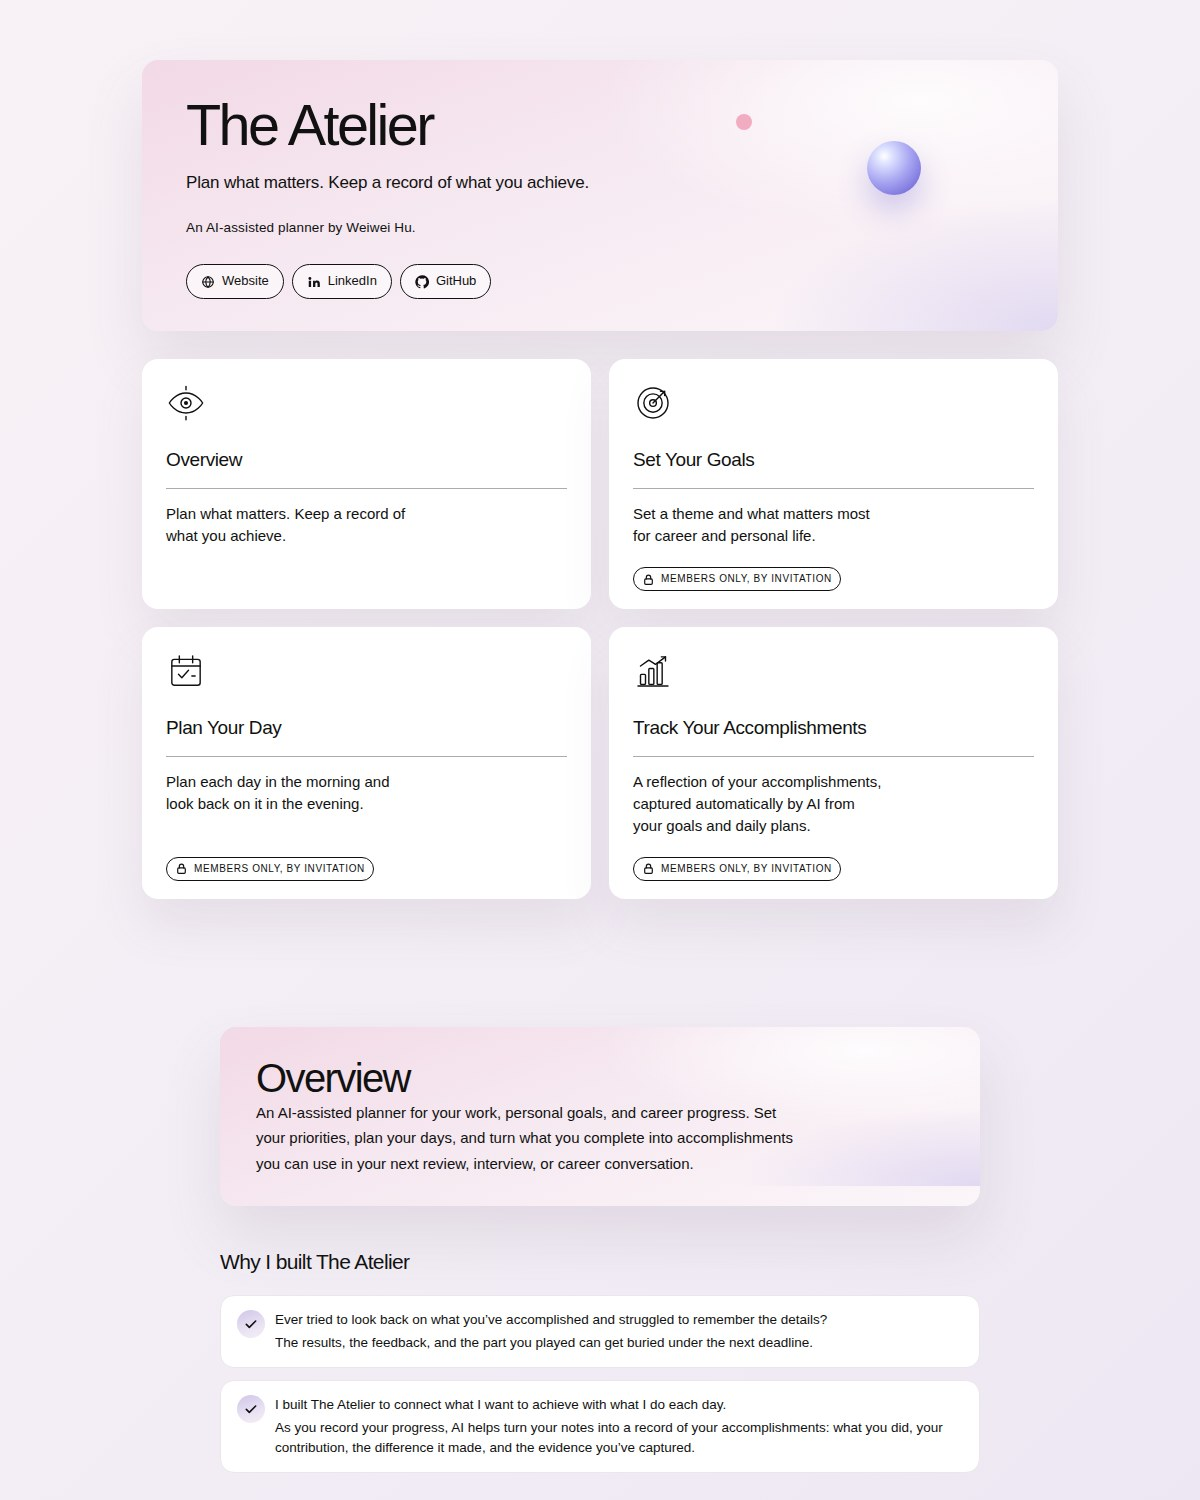
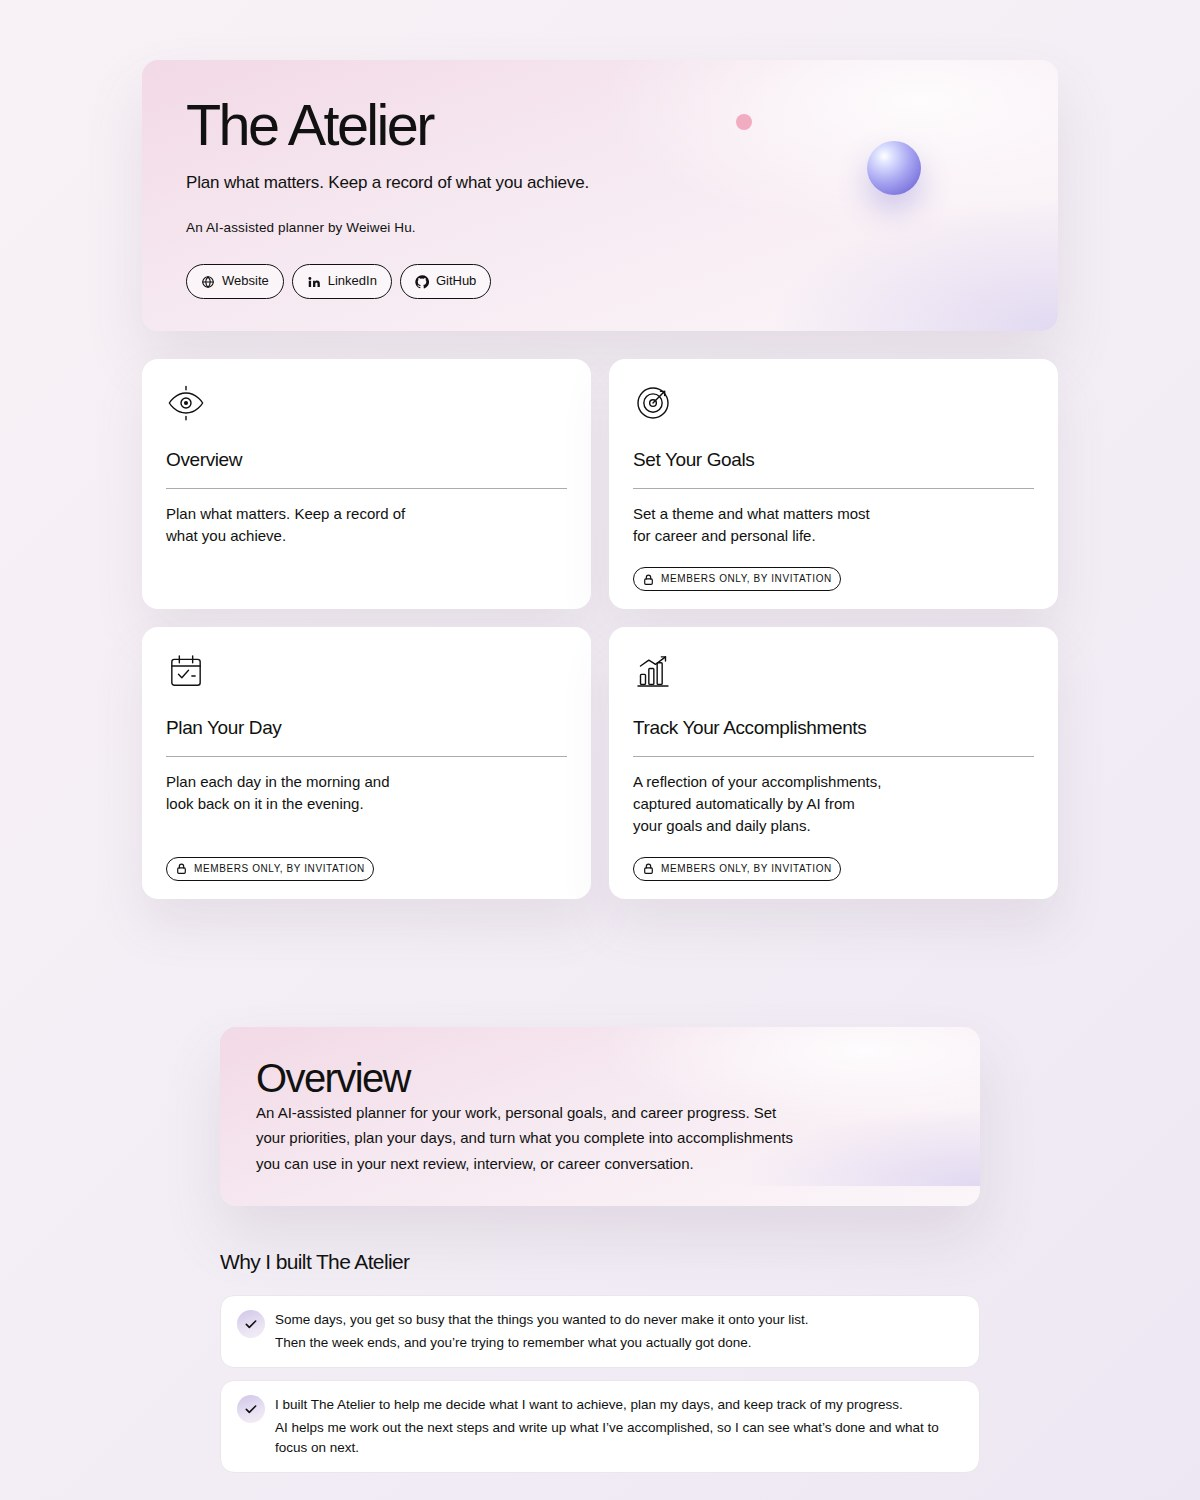
Overview: forward-looking Why I built The Atelier

Changed region(s): [[0.2158, 0.8587, 0.74, 0.9813], [0.74, 0.9507, 0.7708, 0.9813]]

diff --git a/index.html b/index.html
@@ -2528,8 +2528,8 @@ b, strong, .exportbtn, .crumbs button[aria-current="page"], .seg button[aria-pre
     <section aria-labelledby="introWhat">
       <h2 id="introWhat">Why I built The Atelier</h2>
       <ul class="feat feat3">
-        <li><span class="ic"><svg viewBox="0 0 24 24" fill="none" stroke="currentColor" stroke-width="2.4" stroke-linecap="round" stroke-linejoin="round" aria-hidden="true"><path d="M5 12.5l4.5 4.5L19 7.5"></path></svg></span><span><b>Ever tried to look back on what you’ve accomplished and struggled to remember the details?</b>The results, the feedback, and the part you played can get buried under the next deadline.</span></li>
-        <li><span class="ic"><svg viewBox="0 0 24 24" fill="none" stroke="currentColor" stroke-width="2.4" stroke-linecap="round" stroke-linejoin="round" aria-hidden="true"><path d="M5 12.5l4.5 4.5L19 7.5"></path></svg></span><span><b>I built The Atelier to connect what I want to achieve with what I do each day.</b>As you record your progress, AI helps turn your notes into a record of your accomplishments: what you did, your contribution, the difference it made, and the evidence you’ve captured.</span></li>
+        <li><span class="ic"><svg viewBox="0 0 24 24" fill="none" stroke="currentColor" stroke-width="2.4" stroke-linecap="round" stroke-linejoin="round" aria-hidden="true"><path d="M5 12.5l4.5 4.5L19 7.5"></path></svg></span><span><b>Some days, you get so busy that the things you wanted to do never make it onto your list.</b>Then the week ends, and you’re trying to remember what you actually got done.</span></li>
+        <li><span class="ic"><svg viewBox="0 0 24 24" fill="none" stroke="currentColor" stroke-width="2.4" stroke-linecap="round" stroke-linejoin="round" aria-hidden="true"><path d="M5 12.5l4.5 4.5L19 7.5"></path></svg></span><span><b>I built The Atelier to help me decide what I want to achieve, plan my days, and keep track of my progress.</b>AI helps me work out the next steps and write up what I’ve accomplished, so I can see what’s done and what to focus on next.</span></li>
       </ul>
     </section>
     <section aria-labelledby="introCan">

diff --git a/README.md b/README.md
@@ -12,8 +12,8 @@ An AI-assisted planner for your work, personal goals, and career progress. Set y
 
 ## Why I built The Atelier
 
-- **Ever tried to look back on what you've accomplished and struggled to remember the details?** The results, the feedback, and the part you played can get buried under the next deadline.
-- **I built The Atelier to connect what I want to achieve with what I do each day.** As you record your progress, AI helps turn your notes into a record of your accomplishments: what you did, your contribution, the difference it made, and the evidence you've captured.
+- **Some days, you get so busy that the things you wanted to do never make it onto your list.** Then the week ends, and you're trying to remember what you actually got done.
+- **I built The Atelier to help me decide what I want to achieve, plan my days, and keep track of my progress.** AI helps me work out the next steps and write up what I've accomplished, so I can see what's done and what to focus on next.
 
 ## How The Atelier works
 
